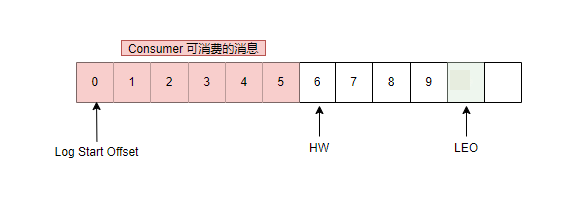
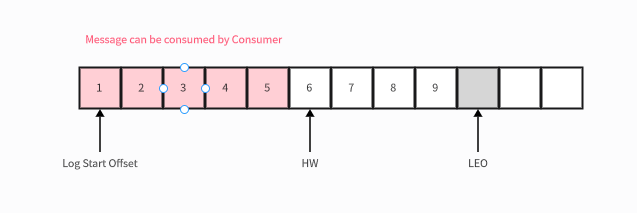
improve(docs): translate illustration pictures

Changed region(s): [[0.0889, 0.1508, 0.9181, 0.8141], [0.5331, 0.7236, 0.5923, 0.7839]]

diff --git a/docs/en/1. Database/2025-01-22-Redis.md b/docs/en/1. Database/2025-01-22-Redis.md
@@ -14,8 +14,6 @@ Redis is a very commonly used key-value database. The use of memory and HashMap 
 
 ![Redis logo](/logo/redis-light.svg)
 
-[[TOC]]
-
 ## Persistence
 The powerful performance of Redis is largely due to the fact that it stores all data in memory. However, after restarting, all the data in memory will be lost. In some cases, we hope that the data in Redis will not be lost after restarting, so Redis is involved There are two persistence strategies: RDB and AOF. Now let's take a look at the principles and advantages and disadvantages of these two strategies.
 
@@ -38,7 +36,7 @@ RDB is a full backup based on snapshots, and the full amount of data is written 
 	When executing this command, Redis will clear all the data in the database. And regardless of whether the automatic snapshot condition is triggered during the clearing process, Redis will perform a snapshot operation as long as the snapshot condition is not empty. However, if the automatic snapshot condition is not defined, the execution of `FLUSHALL` will not take a snapshot.
 - When performing replication (replication).
 
-	When the [master-slave mode] (#Master-slave mode) is set, Redis will take a snapshot when the replication is initialized.
+	When the [master-slave mode](#master-slave-mode) is set, Redis will take a snapshot when the replication is initialized.
 
 #### Snapshot principle
 Redis will store the snapshot file in the dump.rdb file in the working directory of the current Redis process by default.
@@ -108,6 +106,8 @@ If it is some small projects, then using a Redis server may be completely suffic
 ### Master-slave mode
 Since there is an upper limit on the number of concurrent connections for a single server, we can use the master-slave mode to achieve read-write separation, thereby improving the efficiency of read-write. Usually, the master node performs write operations, and the slave node performs read operations.
 
+![Redis Master-slave mode read-write separation](/illustration/en/redis-master-and-slave.png)
+
 In the master-slave mode, there is a problem of data synchronization between the master node and the slave node. Currently, Redis supports two different synchronization methods: **Full synchronization** and **Incremental synchronization**.
 
 #### Full synchronization
@@ -173,7 +173,7 @@ Sentinel mode is mainly used to realize automatic recovery of master-slave clust
 2. ***Automatic recovery:*** If the master fails, promote the slave to the master.
 3. ***Notification:*** When a cluster fails over, the latest information is pushed to the Redis client.
 
-![Redis Sentinel Mode](/illustration/redis-sentinel.png)
+![Redis Sentinel Mode](/illustration/en/redis-sentinel.png)
 
 #### Monitoring
 Use the heartbeat mechanism to send a `ping` every 15 seconds to ensure that the node remains active. There are two cases of node offline:
@@ -192,6 +192,8 @@ Cluster is mainly used to deal with massive amounts of data, and has the followi
 2. Each master has multiple slaves.
 3. Masters use `ping` to detect health.
 4. The client can access any node for reading and writing, and the request will be automatically forwarded to the correct node internally.
+
+![Redis Cluster](/illustration/en/redis-cluster.png)
 
 So if different masters store different data, how does Redis decide which node each data should be stored on? Redis uses slots, and there are a total of 16384 slots. The general process is: first calculate the Hash value based on the valid part of the key, then determine its slot position by taking the modulus of 16384, and then fetch the data.
 

diff --git a/docs/en/1. Database/2025-01-16-distributed transaction consistency.md b/docs/en/1. Database/2025-01-16-distributed transaction consistency.md
@@ -6,6 +6,7 @@ permalink: /en/article/distributed-transaction-consistency-solution/
 ---
 In today's microservice architecture, how to ensure the consistency of distributed transactions is a problem that every backend development engineer may encounter.
 <!-- more -->
+
 Although there are very mature solutions for the consistency of distributed transactions (for example: 2PC, 3PC, TCC, etc.), I found that there are few articles explaining the problems that may be encountered, that is, the defects of each solution. In fact, these defects are exactly what engineers must pay attention to, which is related to the stability of the system and the problems you may encounter in the production environment.
 
 This article will introduce each solution in a relatively simple language, and then focus on their defects and how to improve them.
@@ -28,7 +29,7 @@ Let's now take a look at what the coordinator and participants do in the two sta
 #### Prepare
 When we start a distributed transaction, the 2PC algorithm will enter the `Prepare` stage, and all participants will try to execute this transaction locally.
 
-![2PC Prepare Phase](/illustration/2PC-prepare.png)
+![2PC Prepare Phase](/illustration/en/2PC-prepare.png)
 
 ::: steps
 1. The coordinator issues transaction commands to all participants.
@@ -46,11 +47,11 @@ When the first phase `Prepare` ends, the coordinator will receive feedback from 
 
 2. If all are successful, the `commit` command is issued to all participants.
 
-    ![2PC Commit Phase - commit](/illustration/2PC-commit.png)
+    ![2PC Commit Phase - commit](/illustration/en/2PC-commit.png)
 
 3. If any participant fails, the `rollback` command is issued to all participants.
 
-    ![2PC Commit Phase - rollback](/illustration/2PC-rollback.png)
+    ![2PC Commit Phase - rollback](/illustration/en/2PC-rollback.png)
 :::
 
 ### Defects {#2PC-Defects}
@@ -163,7 +164,7 @@ Confirm the execution of business operations.
 #### Cancel stage
 Cancel the execution of business operations.
 
-![TCC principle diagram](/illustration/tcc-process.png)
+![TCC principle diagram](/illustration/en/tcc-process.png)
 
 ::: tip In most financial scenarios, TCC is used to ensure the consistency of distributed transactions. Because in this more rigorous business scenario, we need to have higher control over each business process.
 :::

diff --git a/docs/en/2. Algorithm/2024-11-26-gene method.md b/docs/en/2. Algorithm/2024-11-26-gene method.md
@@ -14,8 +14,8 @@ Can we directly determine which partition this data is in from the non-sharding 
 
 :::: card title="Requirement scenario"
 Suppose an e-commerce system, we currently have a large amount of order information that needs to be stored in the order table (Order):
-| OrderId | UserId | OrderDetails |
-| ------------------------ | ------- | ------------ |
+| OrderId                           | UserId  | OrderDetails  |
+| --------------------------------- | ------- | ------------- |
 | Order ID (generated by snowflake) | User ID | Order details |
 ::: center
 Order table (Order)
@@ -37,7 +37,7 @@ When we need to find all orders of `UserId = 2846741676215238657`, we only need 
 SELECT OrderId FROM Order_7 WHERE UserId = '2846741676215238657';
 ```
 
-![After sharding with UserId as the sharding key](/illustration/order-split-table.png)
+![After sharding with UserId as the sharding key](/illustration/en/order-split-table.png)
 
 ::: warning Data skew
 In the actual production environment, the sharding key must be selected carefully, Because inappropriate sharding keys are likely to cause data skew in the sharded tables, that is, some tables have too much data and some have too little.
@@ -75,7 +75,7 @@ The sharding key is `UserId`, which is divided into 16 tables in total, so the s
 Directly change the last four bits of the ID generated by snowflake to the sharding gene.
 :::
 
-![Generate OrderId by Genetic Method](/illustration/gene-algorithm-id-genertion.png)
+![Generate OrderId by Genetic Method](/illustration/en/gene-algorithm-id-genertion.png)
 
 The generated `OrderId` can ensure that when `UserId` is the same, `OrderId` will also be assigned to the same partition because its low bits are replaced with the same binary.
 

diff --git a/docs/en/5. Model/2025-02-18-foundation model.md b/docs/en/5. Model/2025-02-18-foundation model.md
@@ -4,13 +4,14 @@ tags:
   - Model
 permalink: /en/article/what-is-fundation-models/
 createTime: 2025/02/18 16:05:25
+cover: /logo/deepseek-light.svg
 ---
 With the development of the times, the application of foundation models in various fields is expanding. This article tries its best to sort out various materials and will give a brief overview of foundation models from the aspects of concept definition, type classification, training and application.
+<!-- more -->
 
 If you want to understand foundation models but lack basic knowledge or feel that you have no idea where to start, then reading this article may help you.
 
 ![deepseek logo](/logo/deepseek-light.svg)
-<!-- more -->
 
 ## Concept Definition
 ### Main Concepts of Artificial Intelligence
